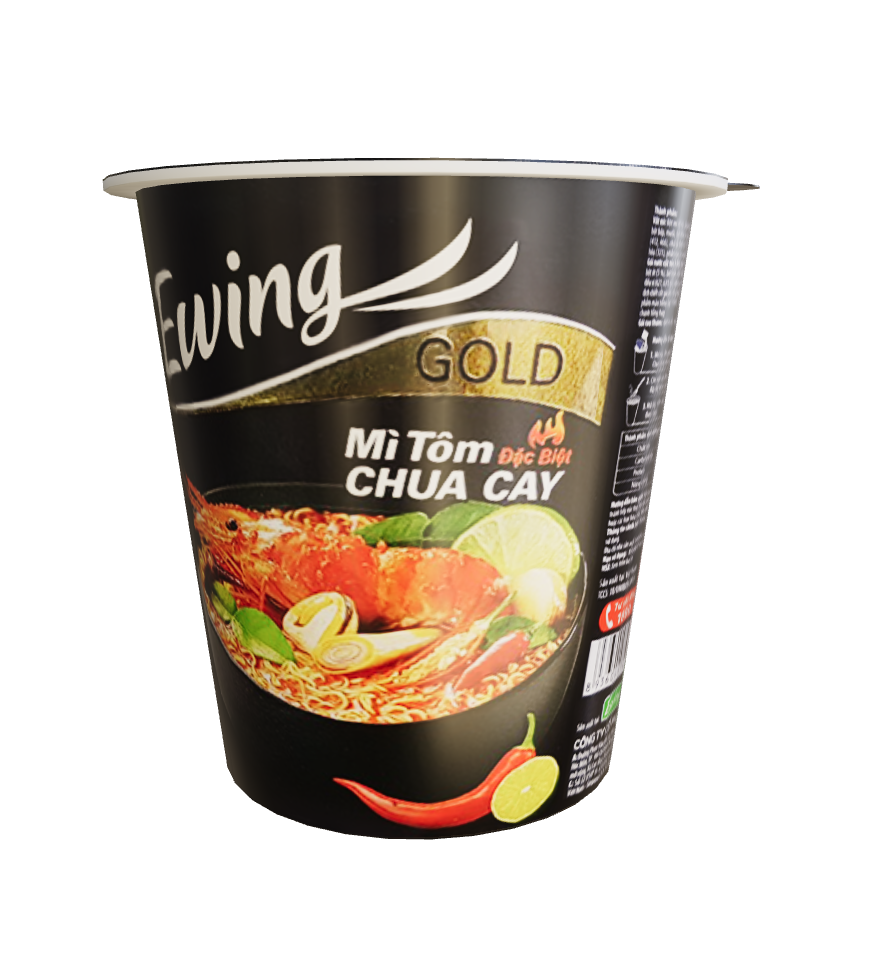
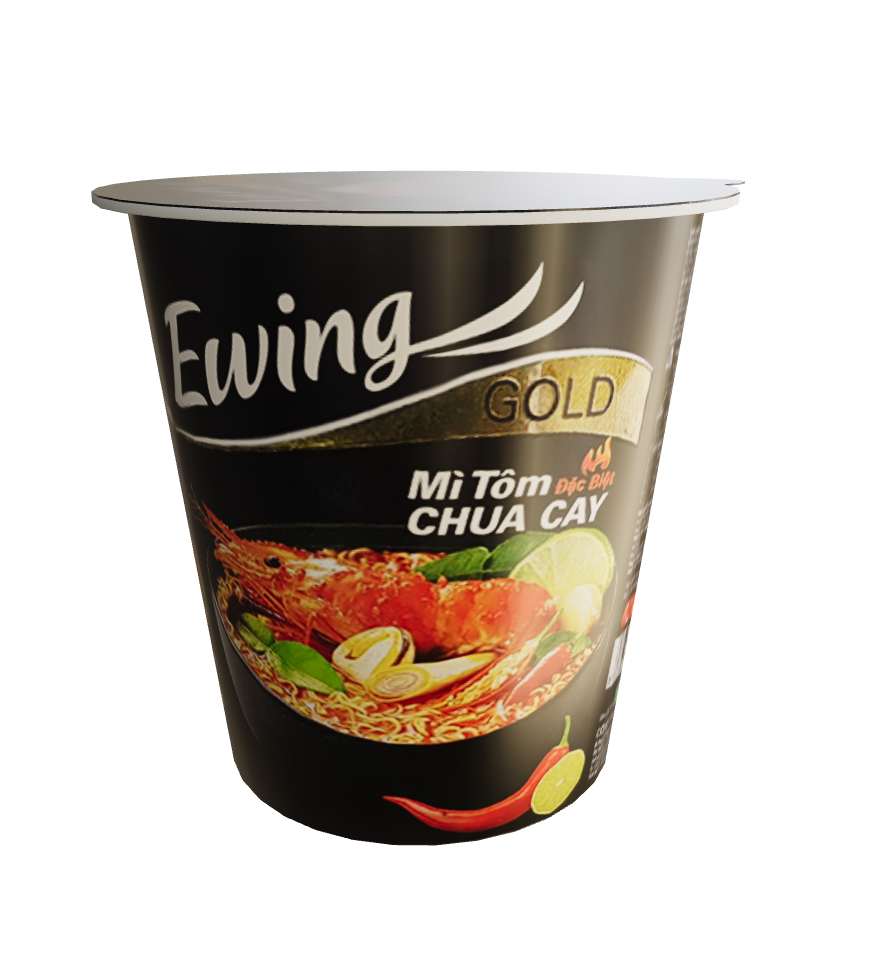
Test

Changed region(s): [[0.0918, 0.1559, 0.8571, 0.9044], [0.2755, 0.8108, 0.3061, 0.842]]

diff --git a/index.html b/index.html
@@ -11,7 +11,7 @@
   </head>
   <body>
     <!-- <model-viewer> HTML element -->
-    <model-viewer src="Hop_Mi.glb" ar ar-modes="scene-viewer webxr quick-look" environment-image="pillars_1k.hdr" camera-orbit="24.7deg 79.49deg 45.67m" poster="poster.png">
+    <model-viewer src="Hop_Mi.glb" camera-controls ar ar-modes="scene-viewer webxr quick-look" environment-image="pillars_1k.hdr" camera-orbit="-16.09deg 72.38deg 45.67m" poster="poster.png" min-camera-orbit="auto auto auto" max-camera-orbit="auto auto 45.67m">
       <div class="progress-bar hide" slot="progress-bar">
           <div class="update-bar"></div>
       </div>
